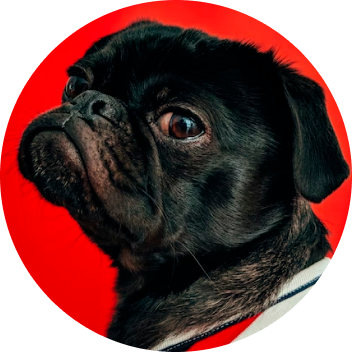
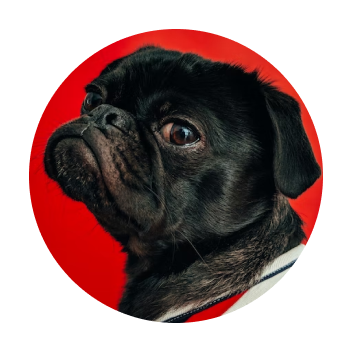
hero

diff --git a/piur/prototype/static/css/styles.css b/piur/prototype/static/css/styles.css
@@ -311,14 +311,39 @@ footer ul li img {
 
 .home .hero-image {
     position: relative;
+    margin: 100px auto 50px auto;
+    width: 100%;
+    display: flex;
+    justify-content: center;
+}
+
+.home .hero-image .hero-placeholder,
+.home .hero-image .hero {
+    width: calc(100% - 64px);
+    max-width: 400px;
+    height: auto;
+    display: block;
+    background-repeat: no-repeat;
+    background-position: center;
+    background-size: cover;
+    background-image: url(../img/hero-background.png);
+    animation: spin 4s linear infinite;
 }
 
 .home .hero-image .hero {
-    margin: 100px auto 50px auto;
-    width: calc(100% - 64px);
-    max-width: 460px;
-    height: auto;
-    display: block;
+    position: absolute;
+    background-image: url(../img/hero-image.png);
+    animation: none;
+    z-index: 1;
+}
+
+@keyframes spin {
+   0% {
+      transform: rotate(0deg);
+   }
+   100% {
+      transform: rotate(360deg);
+   }
 }
 
 .home .btn.start {

diff --git a/piur/prototype/index.html b/piur/prototype/index.html
@@ -33,7 +33,8 @@
         <span class="home-gradient"></span>
 
         <div class="hero-image">
-            <img class="hero" src="static/img/hero-image.png" alt="Retrato de perro">
+            <img class="hero" src="static/img/hero-placeholder.png" alt="Foto de perro de frente">
+            <img class="hero-placeholder" src="static/img/hero-placeholder.png" alt="">
         </div>
         
         <div class="container pt-0">
